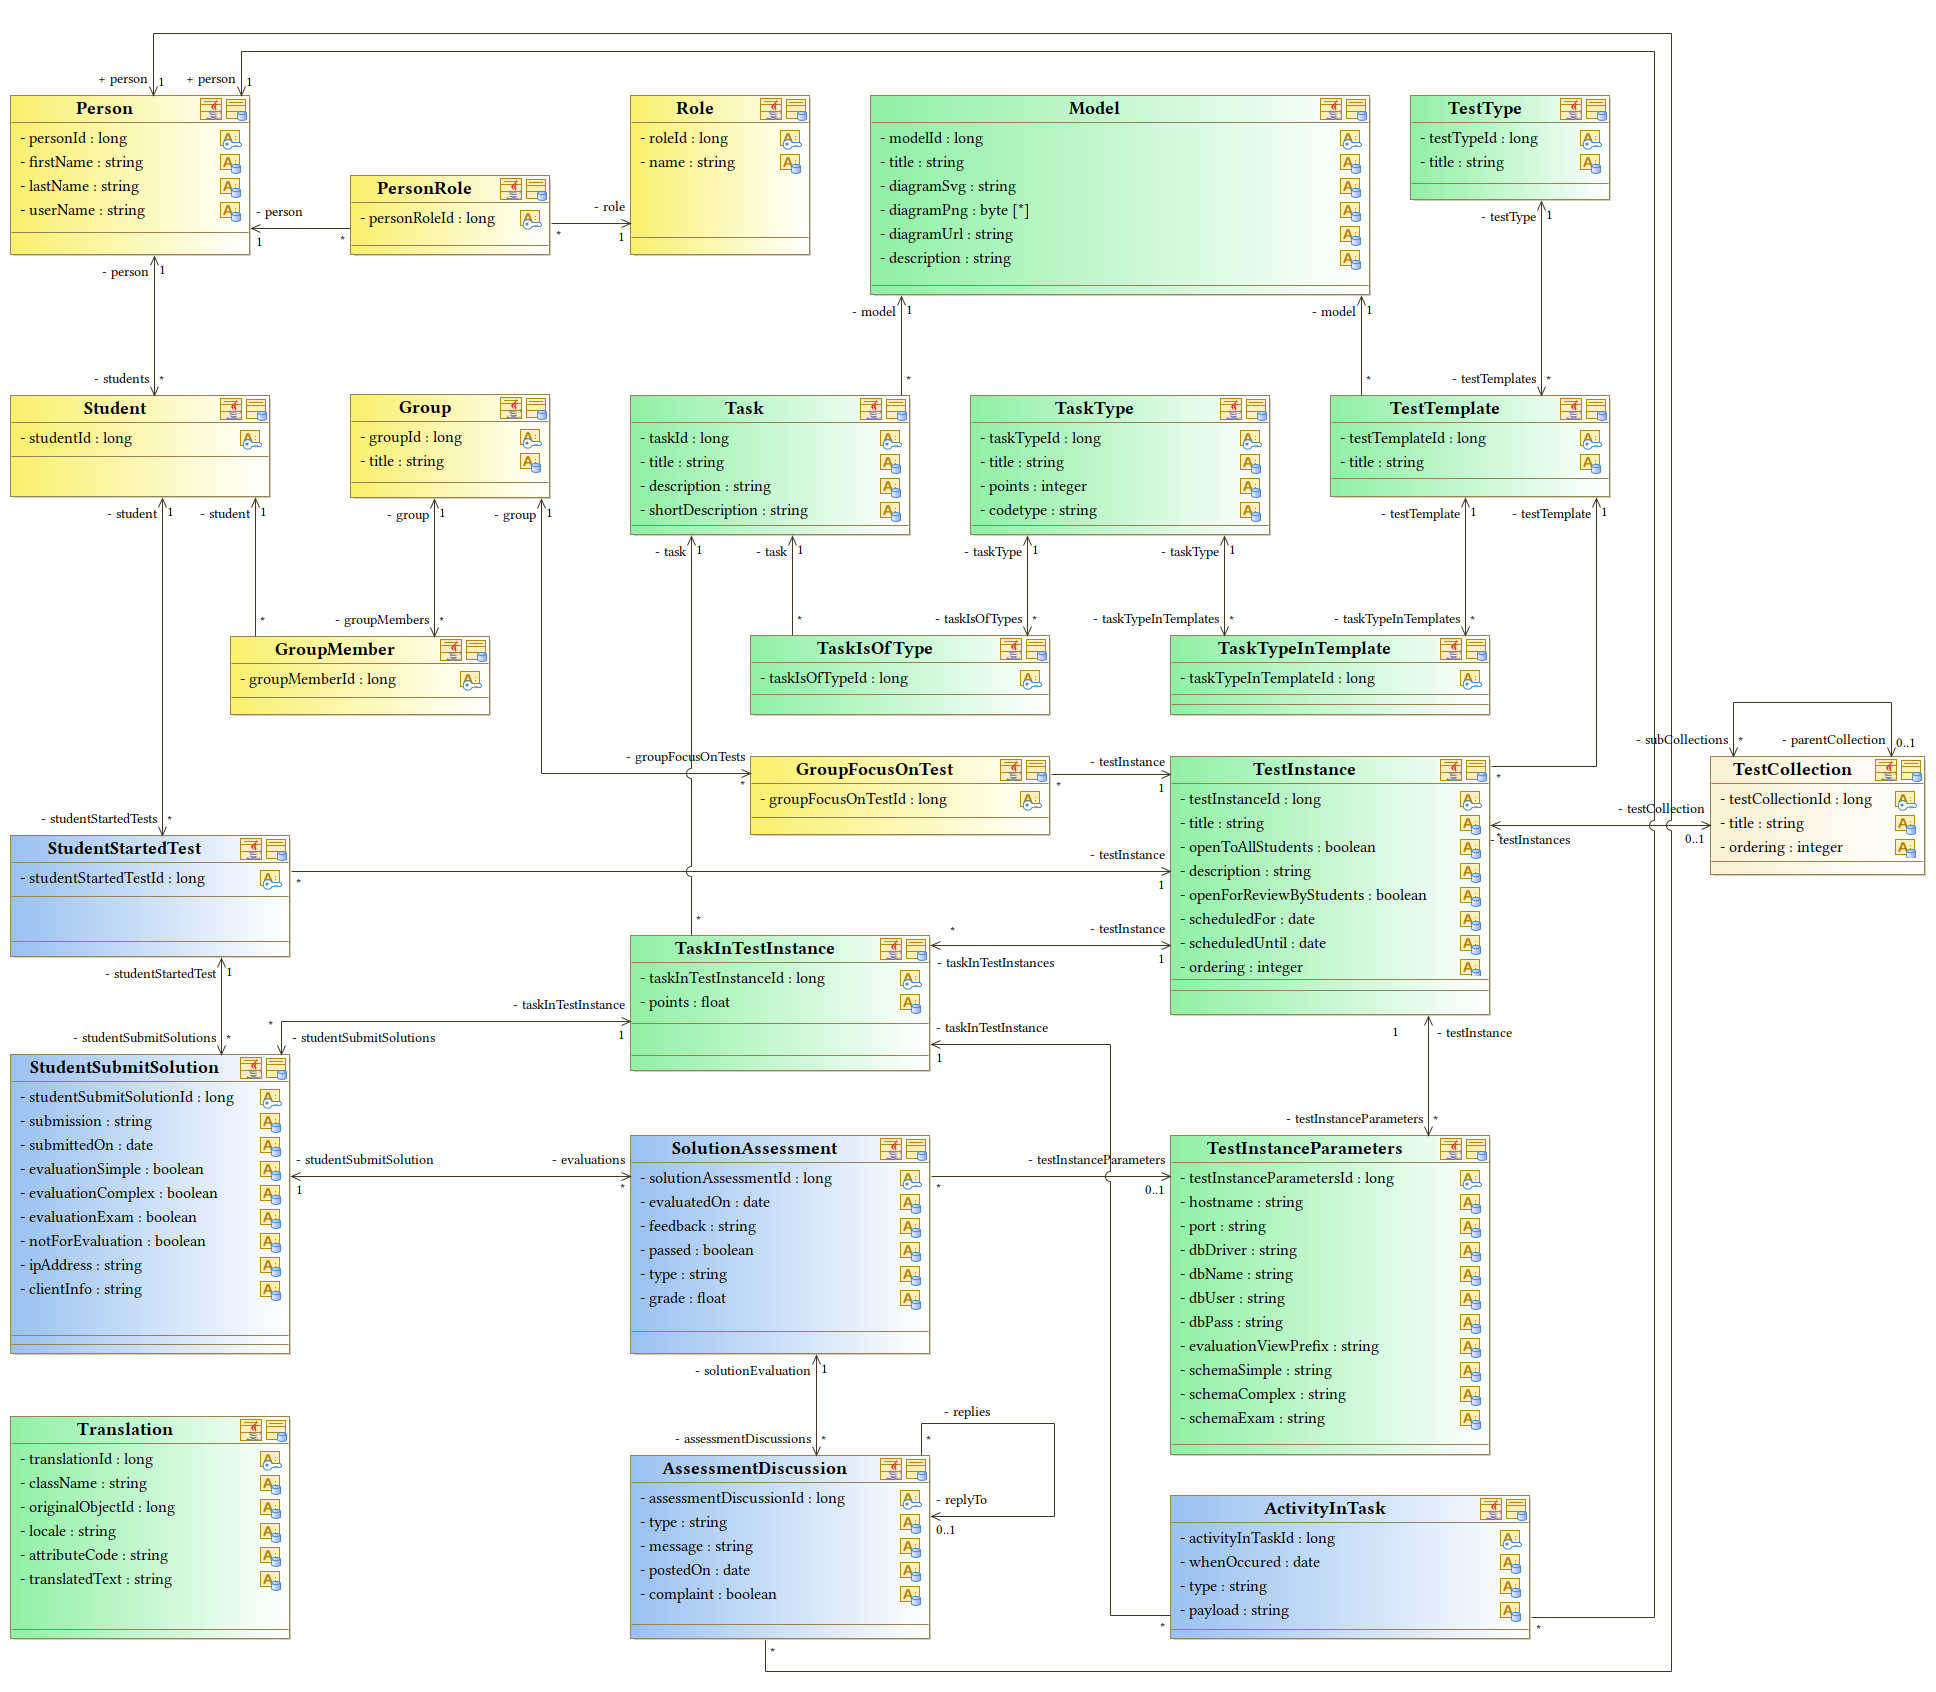
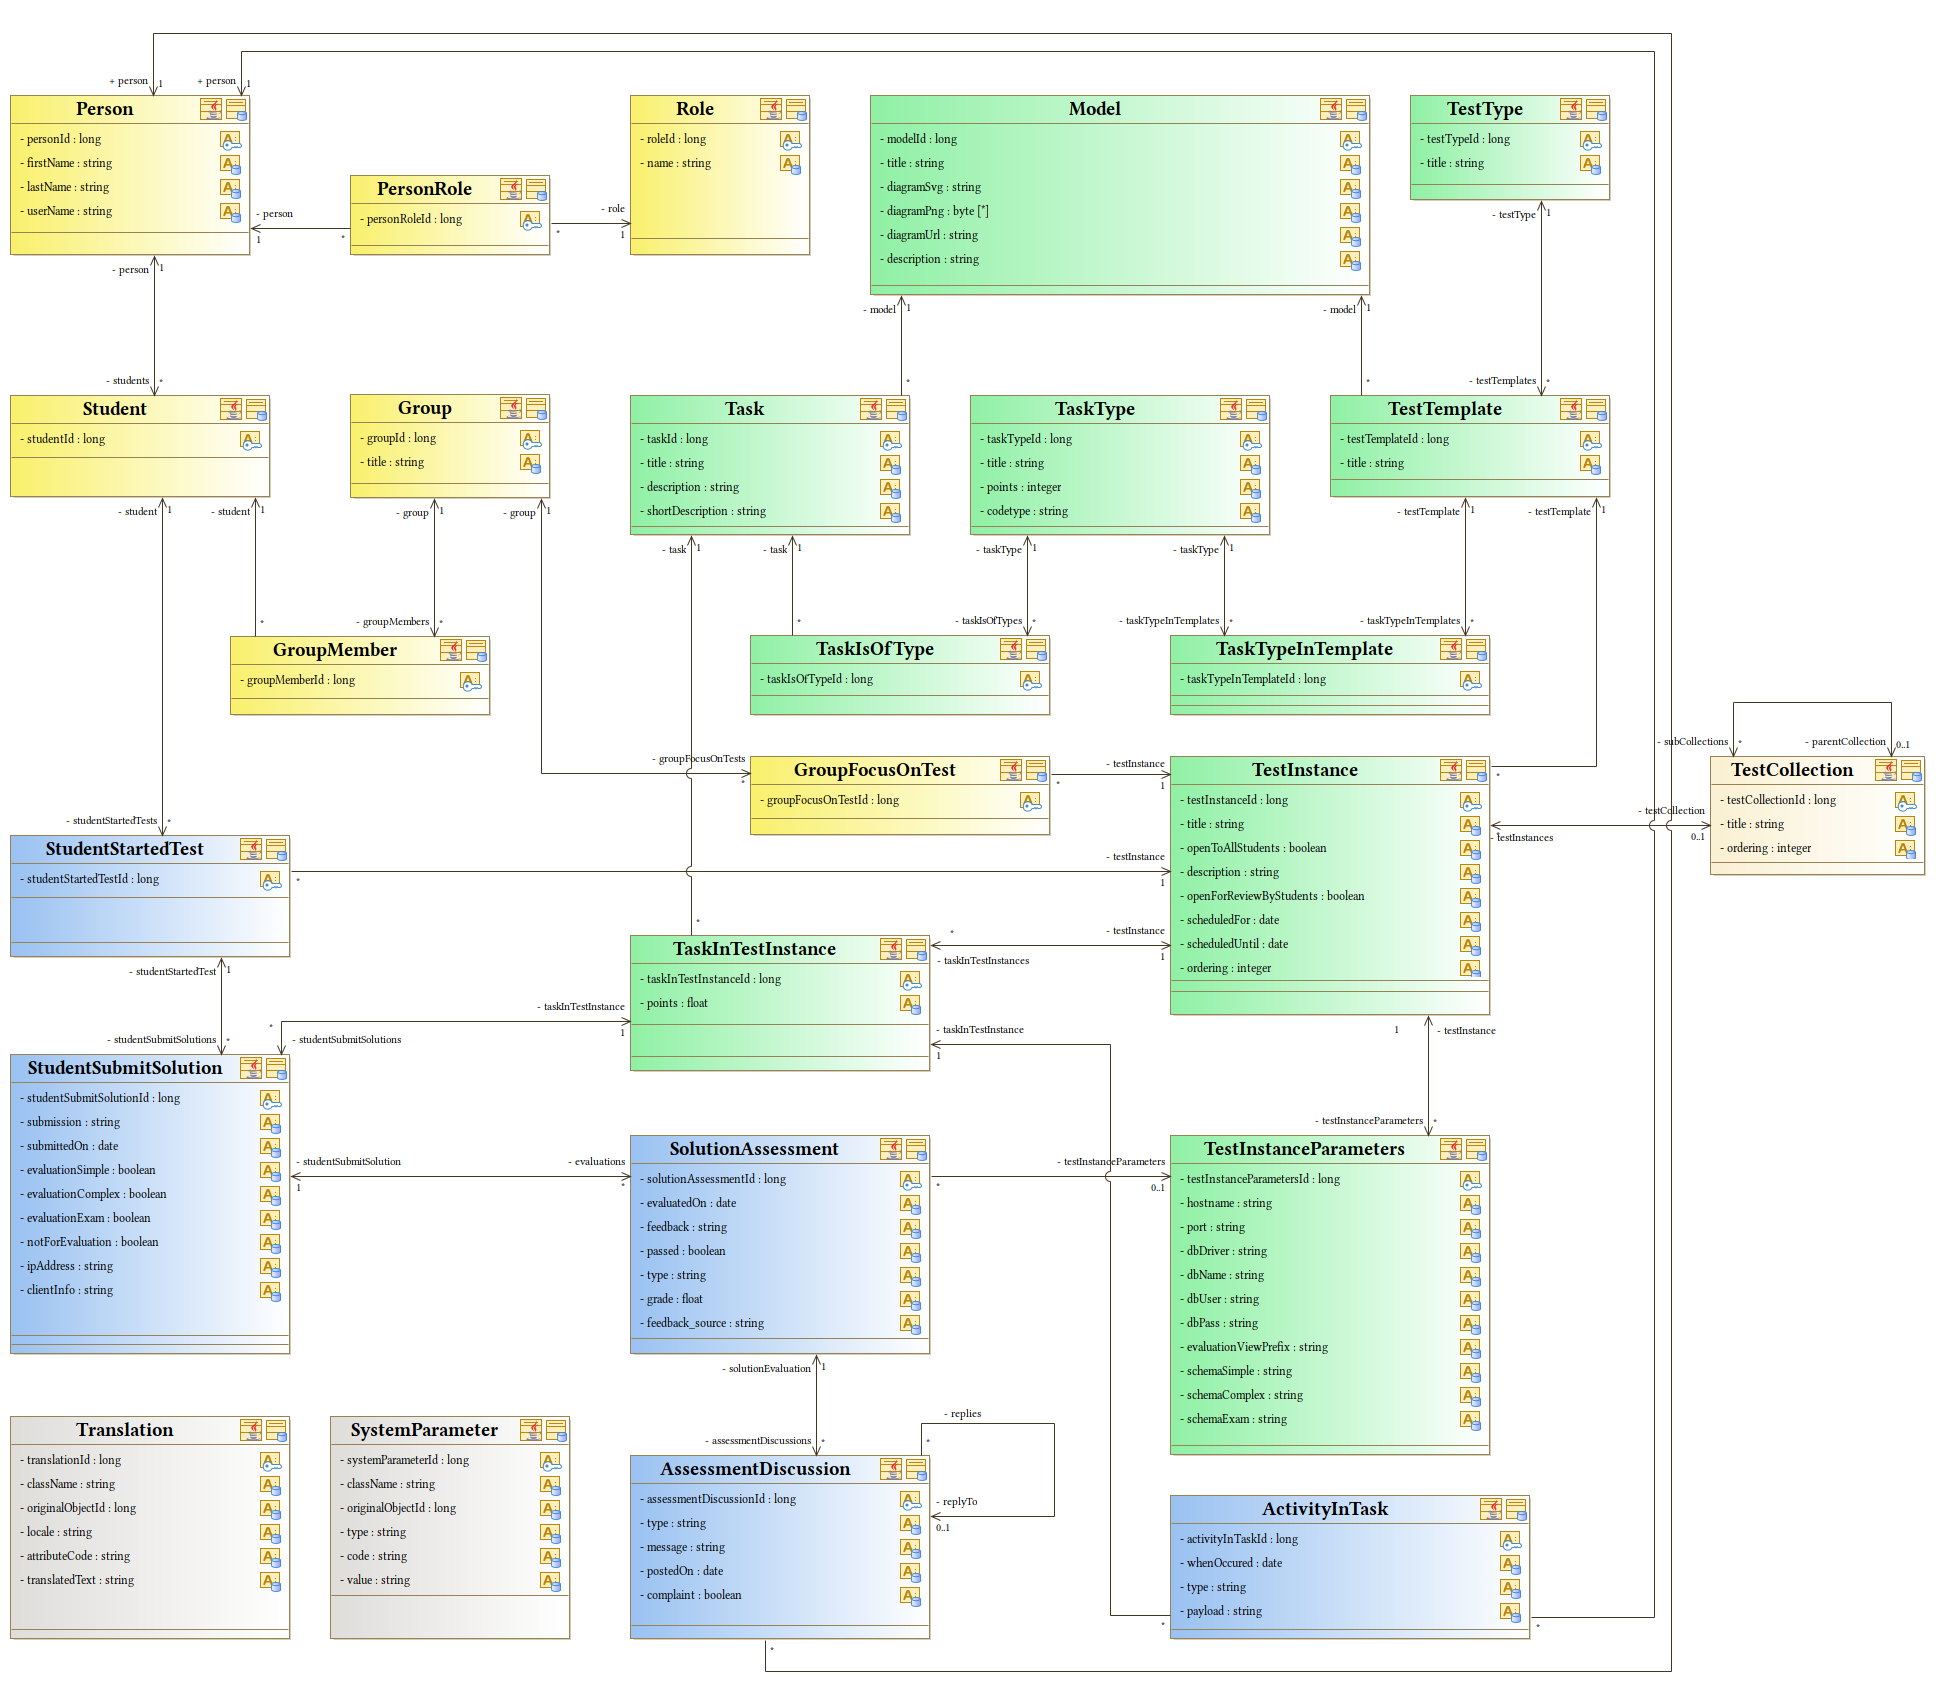
Dynamic database-based system parameters support

diff --git a/dbLearnStar-model/src/main/java/dblearnstar/model/entities/SystemParameter.java b/dbLearnStar-model/src/main/java/dblearnstar/model/entities/SystemParameter.java
@@ -1,0 +1,103 @@
+/*******************************************************************************
+ * Copyright (C) 2021 Vangel V. Ajanovski
+ *     
+ * This file is part of the dbLearn* system (hereinafter: dbLearn*).
+ *     
+ * dbLearn* is free software: you can redistribute it and/or modify it under the 
+ * terms of the GNU General Public License as published by the Free Software 
+ * Foundation, either version 3 of the License, or (at your option) any later 
+ * version.
+ *     
+ * dbLearn* is distributed in the hope that it will be useful, but WITHOUT ANY 
+ * WARRANTY; without even the implied warranty of MERCHANTABILITY or FITNESS 
+ * FOR A PARTICULAR PURPOSE.  See the GNU General Public License for more 
+ * details.
+ *     
+ * You should have received a copy of the GNU General Public License along 
+ * with dbLearn*.  If not, see <https://www.gnu.org/licenses/>.
+ * 
+ ******************************************************************************/
+
+package dblearnstar.model.entities;
+
+import java.util.*;
+import javax.persistence.*;
+import javax.validation.constraints.*;
+
+/*
+*/
+@Entity
+@Table (schema="sql_learning", name="system_parameter")
+public class SystemParameter implements java.io.Serializable {
+	private long systemParameterId;
+	private String className;
+	private long originalObjectId;
+	private String type;
+	private String code;
+	private String value;
+
+
+	@Id
+	@GeneratedValue(strategy = GenerationType.IDENTITY)
+
+	@NotNull
+	@Column(name = "system_parameter_id", unique = true, nullable = false)
+	public long getSystemParameterId() {
+		return this.systemParameterId;
+	}
+
+	public void setSystemParameterId(long systemParameterId) {
+		this.systemParameterId=systemParameterId;
+	}
+
+	@NotNull
+	@Column(name = "class_name", nullable = false)
+	public String getClassName() {
+		return this.className;
+	}
+
+	public void setClassName(String className) {
+		this.className=className;
+	}
+
+	@NotNull
+	@Column(name = "original_object_id", nullable = false)
+	public long getOriginalObjectId() {
+		return this.originalObjectId;
+	}
+
+	public void setOriginalObjectId(long originalObjectId) {
+		this.originalObjectId=originalObjectId;
+	}
+
+	@NotNull
+	@Column(name = "type", nullable = false)
+	public String getType() {
+		return this.type;
+	}
+
+	public void setType(String type) {
+		this.type=type;
+	}
+
+	@NotNull
+	@Column(name = "code", nullable = false)
+	public String getCode() {
+		return this.code;
+	}
+
+	public void setCode(String code) {
+		this.code=code;
+	}
+
+	@NotNull
+	@Column(name = "value", nullable = false)
+	public String getValue() {
+		return this.value;
+	}
+
+	public void setValue(String value) {
+		this.value=value;
+	}
+
+}

diff --git a/dbLearnStar-webApp/src/main/java/dblearnstar/webapp/pages/admin/SystemParameters.java b/dbLearnStar-webApp/src/main/java/dblearnstar/webapp/pages/admin/SystemParameters.java
@@ -1,0 +1,78 @@
+/*******************************************************************************
+ * Copyright (C) 2021 Vangel V. Ajanovski
+ *     
+ * This file is part of the EPRMS - Educational Project and Resource 
+ * Management System (hereinafter: EPRMS).
+ *     
+ * EPRMS is free software: you can redistribute it and/or modify
+ * it under the terms of the GNU General Public License as published by
+ * the Free Software Foundation, either version 3 of the License, or
+ * (at your option) any later version.
+ *     
+ * EPRMS is distributed in the hope that it will be useful,
+ * but WITHOUT ANY WARRANTY; without even the implied warranty of
+ * MERCHANTABILITY or FITNESS FOR A PARTICULAR PURPOSE.  See the
+ * GNU General Public License for more details.
+ *     
+ * You should have received a copy of the GNU General Public License
+ * along with EPRMS.  If not, see <https://www.gnu.org/licenses/>.
+ ******************************************************************************/
+
+package dblearnstar.webapp.pages.admin;
+
+import java.util.List;
+
+import org.apache.tapestry5.annotations.Persist;
+import org.apache.tapestry5.annotations.Property;
+import org.apache.tapestry5.annotations.SessionState;
+import org.apache.tapestry5.hibernate.annotations.CommitAfter;
+import org.apache.tapestry5.ioc.annotations.Inject;
+
+import dblearnstar.model.entities.SystemParameter;
+import dblearnstar.model.model.UserInfo;
+import dblearnstar.webapp.annotations.AdministratorPage;
+import dblearnstar.webapp.annotations.InstructorPage;
+import dblearnstar.webapp.services.GenericService;
+import dblearnstar.webapp.services.UsefulMethods;
+
+@InstructorPage
+@AdministratorPage
+public class SystemParameters {
+	@SessionState
+	@Property
+	private UserInfo userInfo;
+
+	@Inject
+	private GenericService genericService;
+
+	@Property
+	private SystemParameter systemParameter;
+
+	@Persist
+	@Property
+	private SystemParameter editSystemParameter;
+
+	public List<SystemParameter> getSystemParameters() {
+		return (List<SystemParameter>) UsefulMethods.castList(SystemParameter.class,
+				genericService.getAll(SystemParameter.class));
+	}
+
+	void onActionFromNewSystemParameter() {
+		editSystemParameter = new SystemParameter();
+	}
+
+	void onActionFromEditParameter(SystemParameter sp) {
+		editSystemParameter = sp;
+	}
+
+	@CommitAfter
+	void onActionFromDeleteParameter(SystemParameter sp) {
+		genericService.delete(sp);
+	}
+
+	@CommitAfter
+	void onSuccessFromEditSystemParameter() {
+		genericService.saveOrUpdate(editSystemParameter);
+		editSystemParameter = null;
+	}
+}

diff --git a/dbLearnStar-webApp/src/main/java/dblearnstar/webapp/services/SystemConfigServiceImpl.java b/dbLearnStar-webApp/src/main/java/dblearnstar/webapp/services/SystemConfigServiceImpl.java
@@ -1,0 +1,39 @@
+package dblearnstar.webapp.services;
+
+import org.apache.tapestry5.ioc.annotations.Inject;
+
+import dblearnstar.model.entities.SystemParameter;
+
+public class SystemConfigServiceImpl implements SystemConfigService {
+
+	@Inject
+	private GenericService genericService;
+
+	@Override
+	public String getValue(String className, long originalObjectId, String type) {
+		SystemParameter sp = (UsefulMethods.castList(SystemParameter.class,
+				genericService.getAll(SystemParameter.class))).stream()
+				.filter(p -> p.getClassName().equals(className) && p.getOriginalObjectId() == originalObjectId
+						&& p.getType().equals(type))
+				.findFirst().orElse(null);
+		if (sp != null) {
+			return sp.getValue();
+		} else {
+			return null;
+		}
+	}
+
+	@Override
+	public String getCode(String className, long originalObjectId, String type) {
+		SystemParameter sp = (UsefulMethods.castList(SystemParameter.class,
+				genericService.getAll(SystemParameter.class))).stream()
+				.filter(p -> p.getClassName().equals(className) && p.getOriginalObjectId() == originalObjectId
+						&& p.getType().equals(type))
+				.findFirst().orElse(null);
+		if (sp != null) {
+			return sp.getCode();
+		} else {
+			return null;
+		}
+	}
+}

diff --git a/dbLearnStar-webApp/src/main/java/dblearnstar/webapp/services/SystemConfigService.java b/dbLearnStar-webApp/src/main/java/dblearnstar/webapp/services/SystemConfigService.java
@@ -1,0 +1,7 @@
+package dblearnstar.webapp.services;
+
+public interface SystemConfigService {
+	public String getCode(String className, long originalObjectId, String type);
+
+	public String getValue(String className, long originalObjectId, String type);
+}
